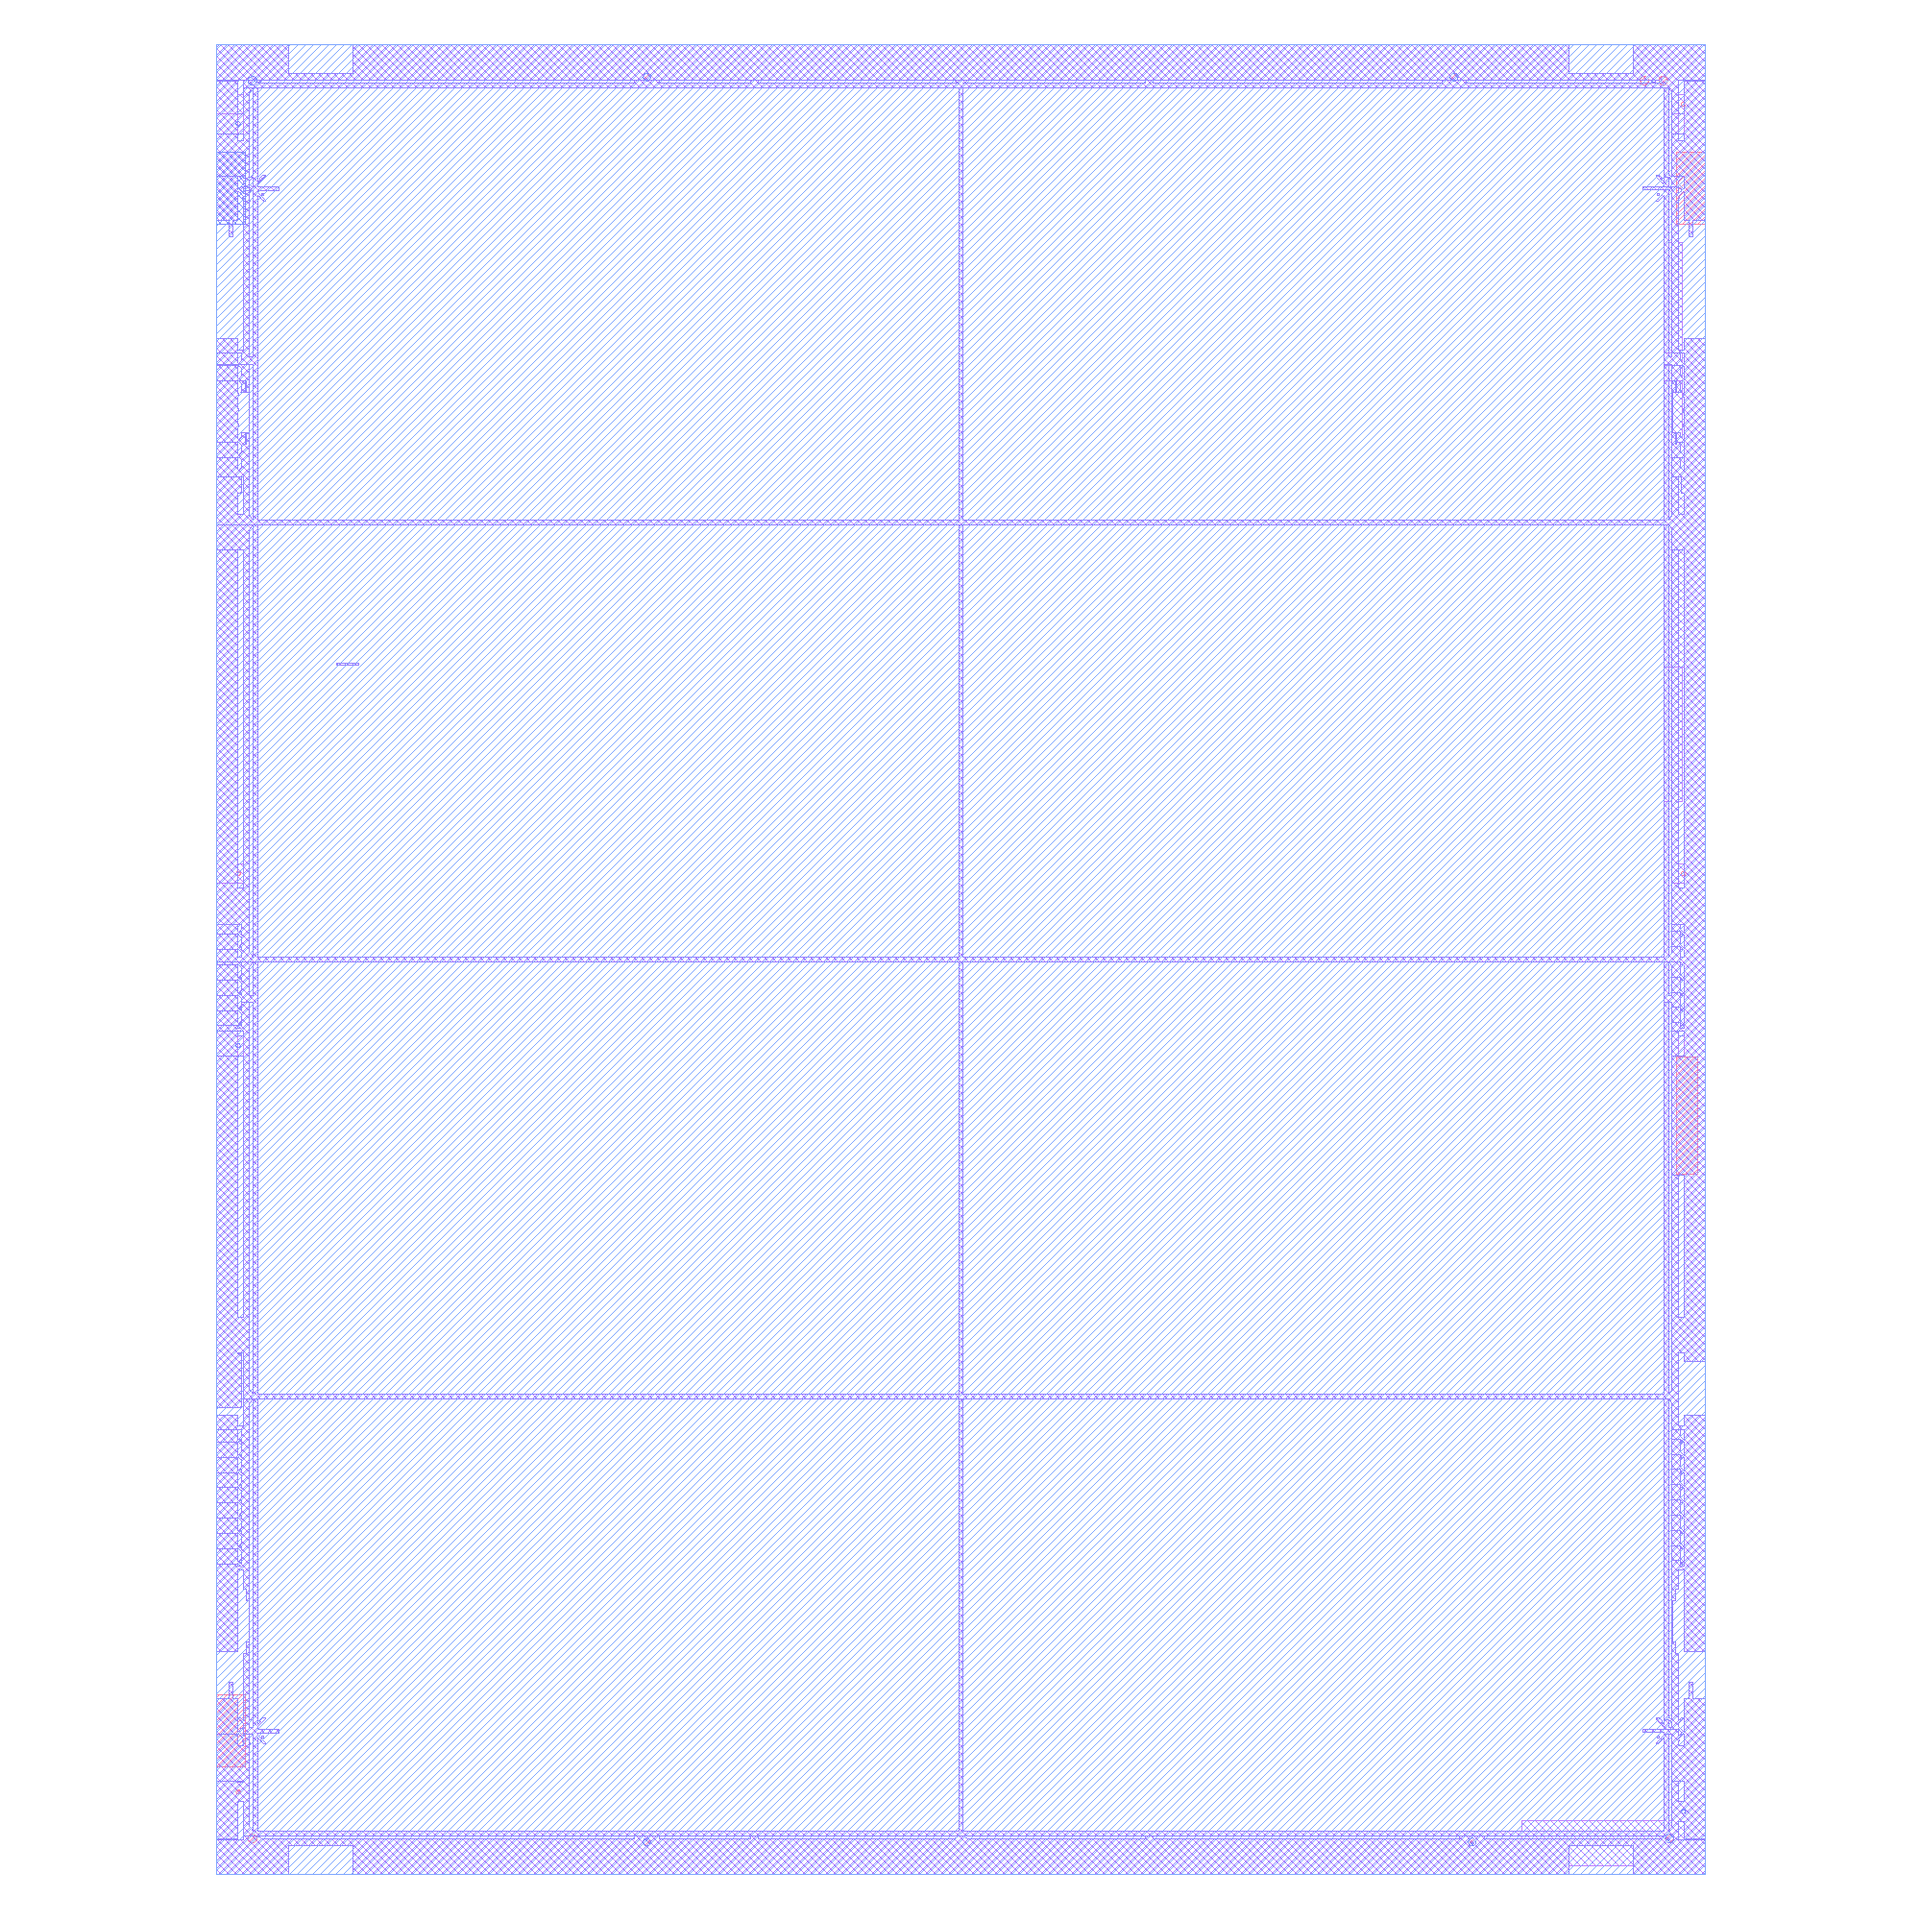
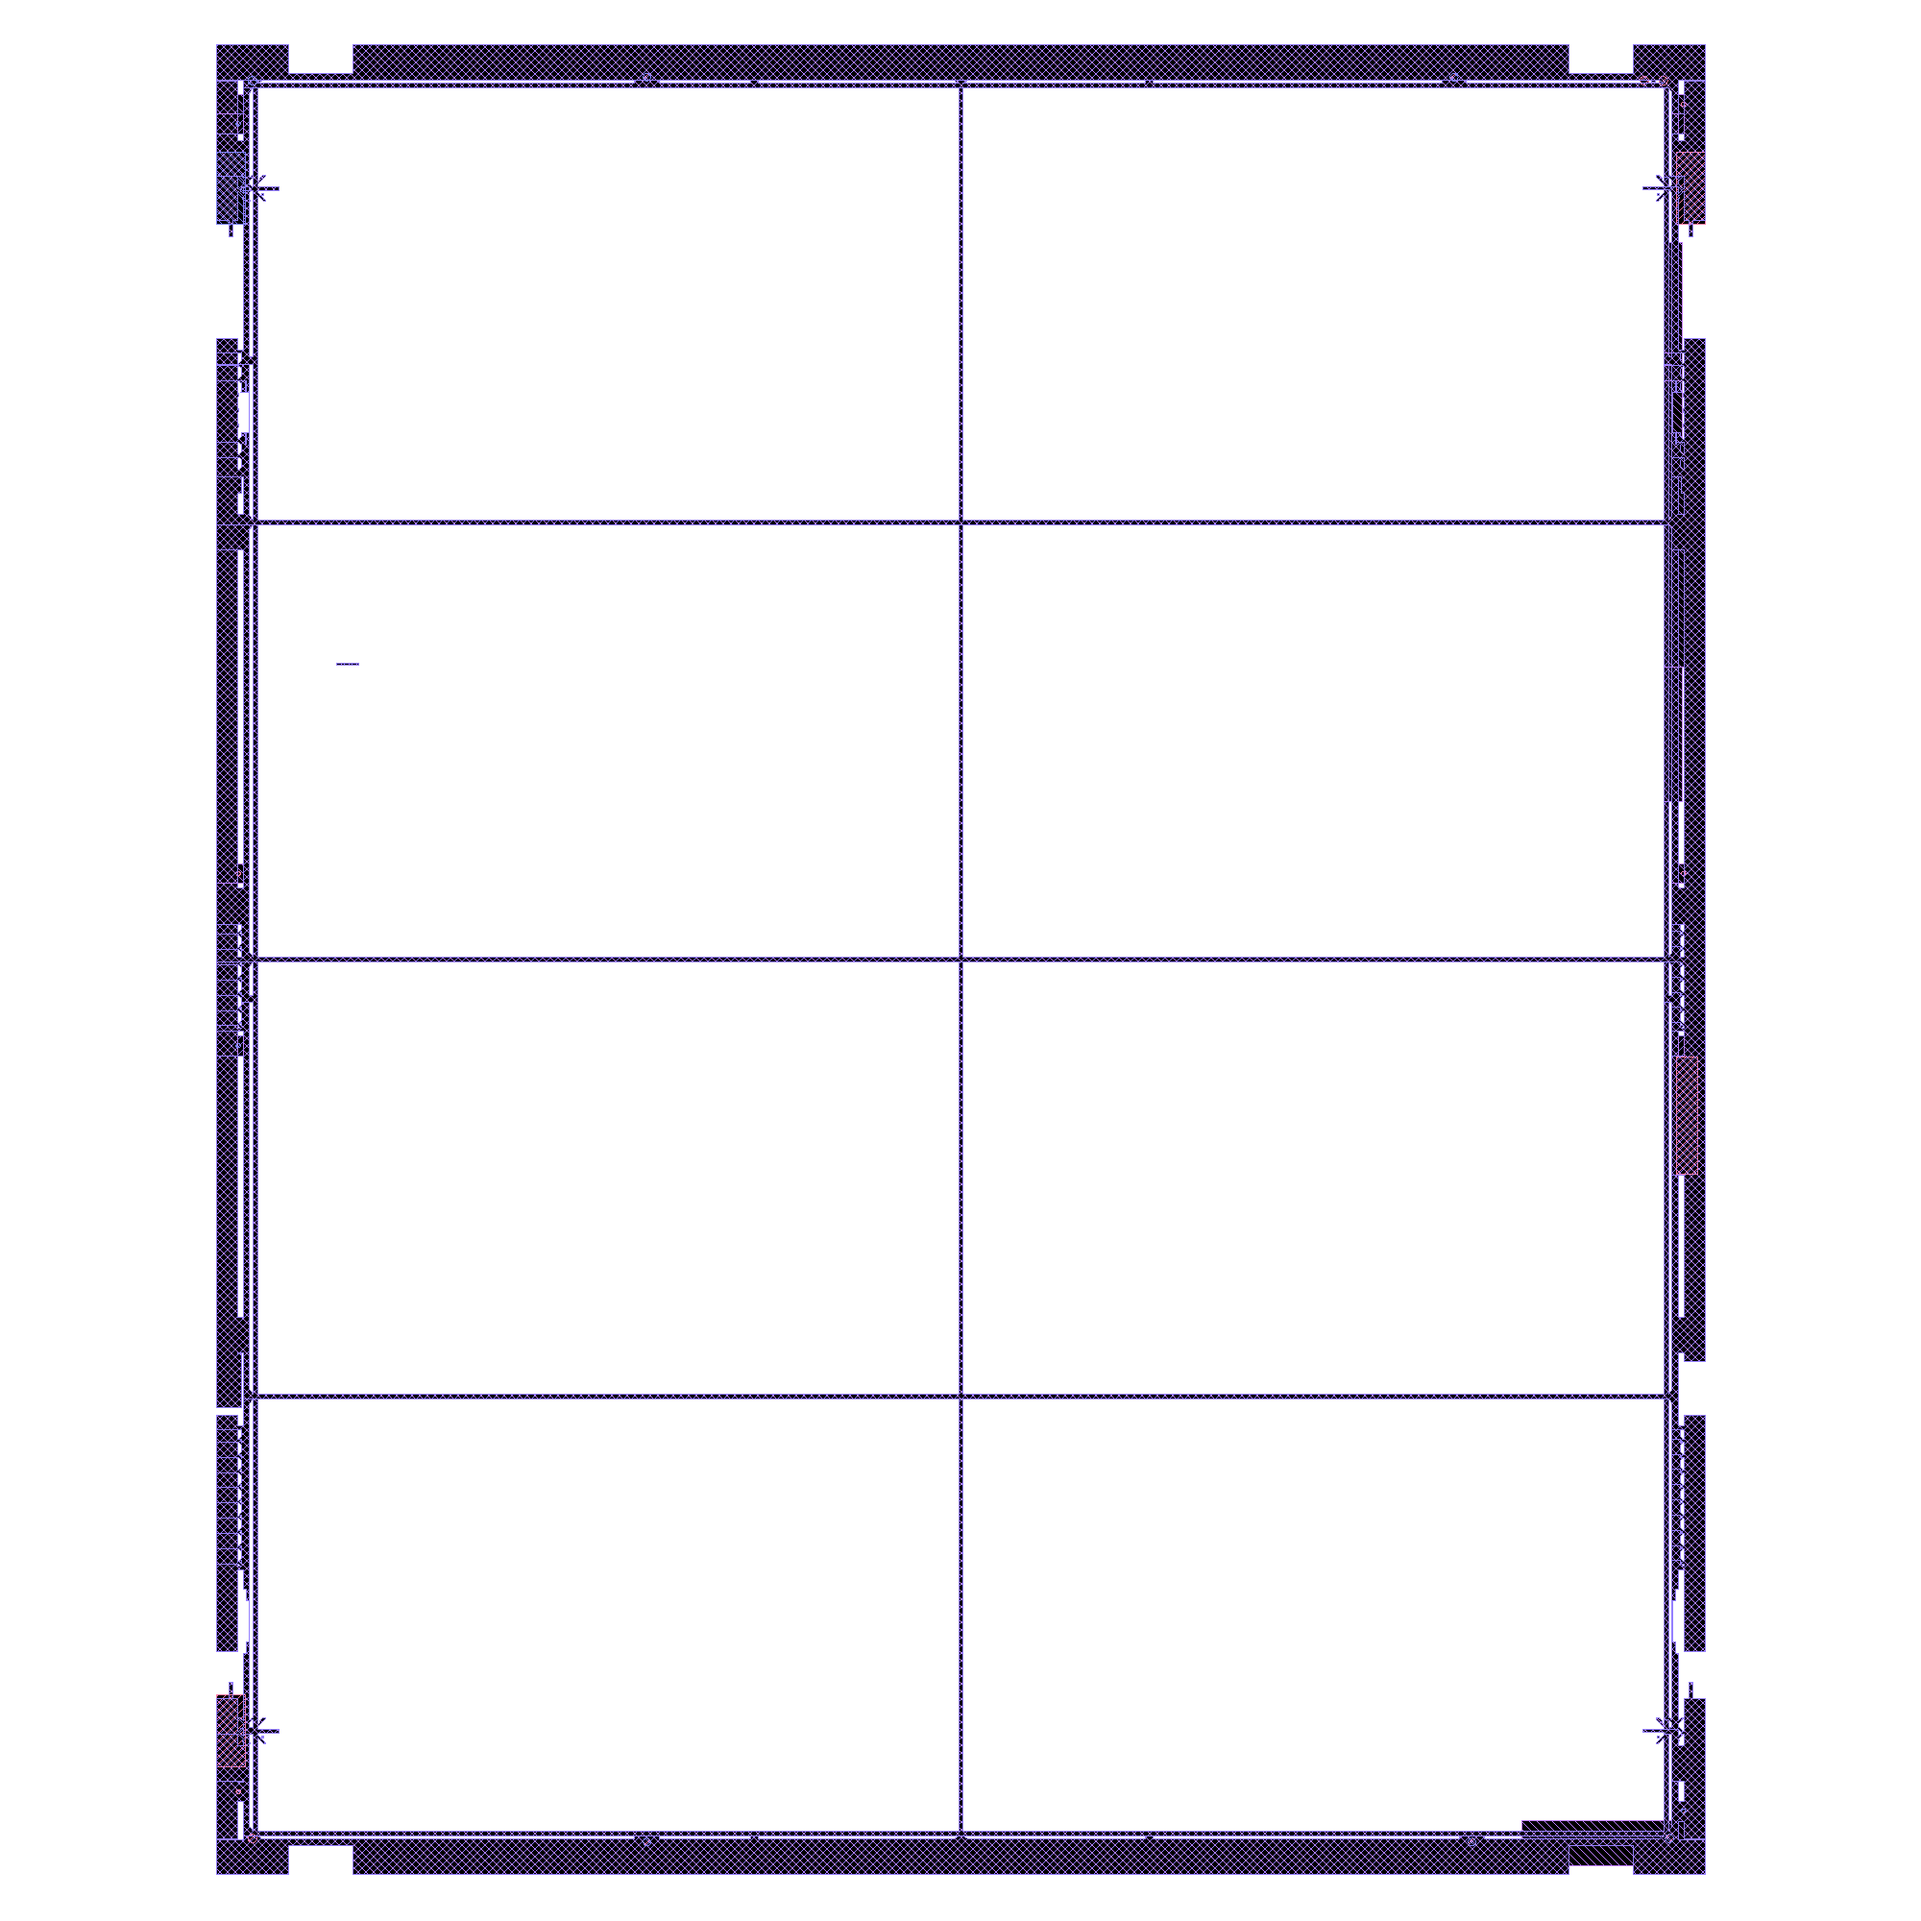
get_screenshot() WIP

Changed region(s): [[0.093, 0.0, 0.899, 0.992]]

diff --git a/src/inp_editing/kl_script.py b/src/inp_editing/kl_script.py
@@ -5,13 +5,13 @@ from pathlib import Path
 import pya
 
 gds_path=str(Path(__file__).parent.parent.parent / "PNL.gds")
-output_path=str(Path(__file__).parent.parent.parent / "bw1.png")
+output_path=str(Path(__file__).parent.parent.parent / "bw2.png")
 app = (
     pya.Application.instance()
 )  # TODO: FIXME module 'pya' has no attribute 'Application'
 mw = app.main_window()
 
-mw.load_layout(gds_path, 1)
+mw.load_layout(gds_path, 2)
 # mw.current_layout()
 
 layout_view = mw.current_view()  
@@ -20,4 +20,13 @@ for lyp in layout_view.each_layer():
     lyp.frame_color    = 0
     lyp.dither_pattern = 0
 
-layout_view.save_image(output_path, 2000, 2000)
+    # print(lyp.layer_index)
+
+    # # Set the visibility of the layer (True for visible, False for invisible)
+    # layer_info.visible = False  # Make the layer invisible
+    if lyp.layer_index() == 4:
+        lyp.visible = False
+screenshot = layout_view.get_screenshot()
+screenshot.save(output_path, "PNG", -1)
+
+# layout_view.save_image(output_path, 2000, 2000)
